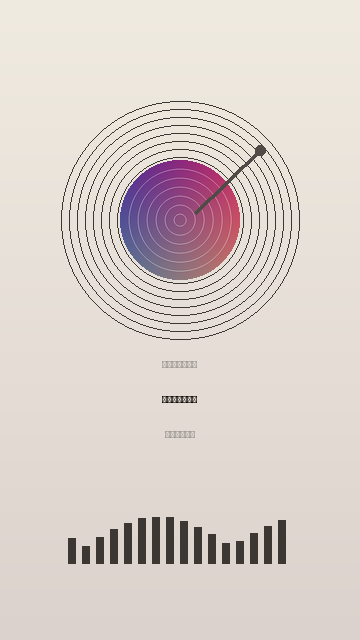
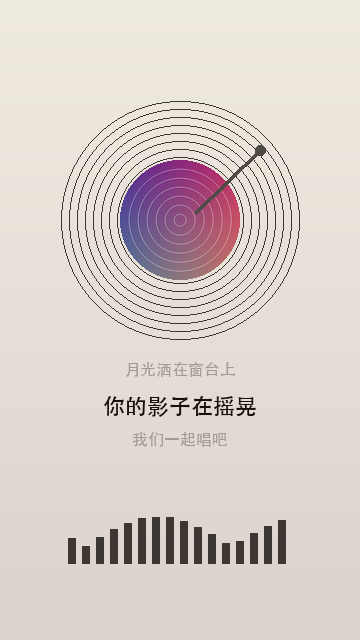
fix: use STHeiti font for Chinese text rendering, centralized font loading

Changed region(s): [[0.275, 0.5625, 0.7028, 0.7188]]

diff --git a/generate_previews.py b/generate_previews.py
@@ -1,7 +1,8 @@
 #!/usr/bin/env python3
 """Generate preview thumbnails for themes and lyrics styles."""
 from pathlib import Path
-from PIL import Image, ImageDraw, ImageFont
+from PIL import Image, ImageDraw
+from render.fonts import get_font
 
 from config import AudioFeatures, TimedLine, FPS
 
@@ -67,12 +68,8 @@ def render_theme_preview(theme_cls, name: str, cover: Image.Image):
 
     # Draw sample lyrics (karaoke style, simplified)
     draw = ImageDraw.Draw(frame)
-    try:
-        font_big = ImageFont.truetype("/System/Library/Fonts/PingFang.ttc", 22)
-        font_small = ImageFont.truetype("/System/Library/Fonts/PingFang.ttc", 16)
-    except OSError:
-        font_big = ImageFont.load_default()
-        font_small = font_big
+    font_big = get_font(22)
+    font_small = get_font(16)
 
     lyrics_y = int(PREVIEW_H * 0.62)
     highlight = theme.get_lyrics_highlight_color()
@@ -93,14 +90,9 @@ def render_lyrics_preview(style_name: str):
     img = Image.new("RGB", (w, h), (15, 15, 30))
     draw = ImageDraw.Draw(img)
 
-    try:
-        font_big = ImageFont.truetype("/System/Library/Fonts/PingFang.ttc", 22)
-        font_med = ImageFont.truetype("/System/Library/Fonts/PingFang.ttc", 18)
-        font_small = ImageFont.truetype("/System/Library/Fonts/PingFang.ttc", 16)
-    except OSError:
-        font_big = ImageFont.load_default()
-        font_med = font_big
-        font_small = font_big
+    font_big = get_font(22)
+    font_med = get_font(18)
+    font_small = get_font(16)
 
     highlight = (0, 255, 255)
     dim = (80, 80, 100)

diff --git a/render/themes/neon_pulse.py b/render/themes/neon_pulse.py
@@ -1,8 +1,9 @@
 # render/themes/neon_pulse.py
 import math
 import random
-from PIL import Image, ImageDraw, ImageFilter, ImageFont
+from PIL import Image, ImageDraw
 from config import AudioFeatures
+from render.fonts import get_font
 
 
 class NeonPulseTheme:
@@ -114,18 +115,10 @@ class NeonPulseTheme:
             draw.line([(x1, y1), (x2, y2)], fill=(r, g, b), width=3)
 
     def draw_title_text(self, draw: ImageDraw.Draw, text: str, canvas_w: int, y: int, max_w: int) -> None:
-        try:
-            font = ImageFont.truetype("/System/Library/Fonts/PingFang.ttc", 48)
-        except OSError:
-            font = ImageFont.load_default()
-        draw.text((canvas_w // 2, y), text, fill="white", anchor="mt", font=font)
+        draw.text((canvas_w // 2, y), text, fill="white", anchor="mt", font=get_font(48))
 
     def draw_artist_text(self, draw: ImageDraw.Draw, text: str, canvas_w: int, y: int, max_w: int) -> None:
-        try:
-            font = ImageFont.truetype("/System/Library/Fonts/PingFang.ttc", 32)
-        except OSError:
-            font = ImageFont.load_default()
-        draw.text((canvas_w // 2, y), text, fill=(180, 180, 200), anchor="mt", font=font)
+        draw.text((canvas_w // 2, y), text, fill=(180, 180, 200), anchor="mt", font=get_font(32))
 
     def get_lyrics_color(self) -> tuple[int, int, int]:
         return (255, 255, 255)

diff --git a/render/themes/wave_groove.py b/render/themes/wave_groove.py
@@ -1,7 +1,8 @@
 # render/themes/wave_groove.py
 import math
-from PIL import Image, ImageDraw, ImageFont
+from PIL import Image, ImageDraw
 from config import AudioFeatures
+from render.fonts import get_font
 
 
 class WaveGrooveTheme:
@@ -84,18 +85,10 @@ class WaveGrooveTheme:
             draw.line(points, fill=(80, 120, 200), width=2)
 
     def draw_title_text(self, draw: ImageDraw.Draw, text: str, canvas_w: int, y: int, max_w: int) -> None:
-        try:
-            font = ImageFont.truetype("/System/Library/Fonts/PingFang.ttc", 48)
-        except OSError:
-            font = ImageFont.load_default()
-        draw.text((canvas_w // 2, y), text, fill="white", anchor="mt", font=font)
+        draw.text((canvas_w // 2, y), text, fill="white", anchor="mt", font=get_font(48))
 
     def draw_artist_text(self, draw: ImageDraw.Draw, text: str, canvas_w: int, y: int, max_w: int) -> None:
-        try:
-            font = ImageFont.truetype("/System/Library/Fonts/PingFang.ttc", 32)
-        except OSError:
-            font = ImageFont.load_default()
-        draw.text((canvas_w // 2, y), text, fill=(160, 180, 220), anchor="mt", font=font)
+        draw.text((canvas_w // 2, y), text, fill=(160, 180, 220), anchor="mt", font=get_font(32))
 
     def get_lyrics_color(self) -> tuple[int, int, int]:
         return (255, 255, 255)

diff --git a/render/themes/vinyl_minimal.py b/render/themes/vinyl_minimal.py
@@ -1,7 +1,8 @@
 # render/themes/vinyl_minimal.py
 import math
-from PIL import Image, ImageDraw, ImageFont
+from PIL import Image, ImageDraw
 from config import AudioFeatures
+from render.fonts import get_font
 
 
 class VinylMinimalTheme:
@@ -74,18 +75,10 @@ class VinylMinimalTheme:
             )
 
     def draw_title_text(self, draw: ImageDraw.Draw, text: str, canvas_w: int, y: int, max_w: int) -> None:
-        try:
-            font = ImageFont.truetype("/System/Library/Fonts/PingFang.ttc", 48)
-        except OSError:
-            font = ImageFont.load_default()
-        draw.text((canvas_w // 2, y), text, fill=(40, 35, 30), anchor="mt", font=font)
+        draw.text((canvas_w // 2, y), text, fill=(40, 35, 30), anchor="mt", font=get_font(48))
 
     def draw_artist_text(self, draw: ImageDraw.Draw, text: str, canvas_w: int, y: int, max_w: int) -> None:
-        try:
-            font = ImageFont.truetype("/System/Library/Fonts/PingFang.ttc", 32)
-        except OSError:
-            font = ImageFont.load_default()
-        draw.text((canvas_w // 2, y), text, fill=(100, 95, 90), anchor="mt", font=font)
+        draw.text((canvas_w // 2, y), text, fill=(100, 95, 90), anchor="mt", font=get_font(32))
 
     def get_lyrics_color(self) -> tuple[int, int, int]:
         return (40, 35, 30)

diff --git a/render/lyrics/karaoke.py b/render/lyrics/karaoke.py
@@ -1,6 +1,7 @@
 # render/lyrics/karaoke.py
-from PIL import Image, ImageDraw, ImageFont
+from PIL import Image, ImageDraw
 from config import TimedLine
+from render.fonts import get_font
 
 
 class KaraokeLyrics:
@@ -11,13 +12,8 @@ class KaraokeLyrics:
             return
 
         draw = ImageDraw.Draw(frame)
-
-        try:
-            font_highlight = ImageFont.truetype("/System/Library/Fonts/PingFang.ttc", 40)
-            font_normal = ImageFont.truetype("/System/Library/Fonts/PingFang.ttc", 30)
-        except OSError:
-            font_highlight = ImageFont.load_default()
-            font_normal = font_highlight
+        font_highlight = get_font(40)
+        font_normal = get_font(30)
 
         current_idx = 0
         for i, line in enumerate(lines):

diff --git a/render/fonts.py b/render/fonts.py
@@ -1,0 +1,22 @@
+"""Centralized font loading with fallback chain for Chinese text."""
+from PIL import ImageFont
+from functools import lru_cache
+
+_FONT_PATHS = [
+    "/System/Library/Fonts/STHeiti Medium.ttc",
+    "/System/Library/Fonts/Hiragino Sans GB.ttc",
+    "/System/Library/Fonts/STHeiti Light.ttc",
+    "/System/Library/Fonts/PingFang.ttc",
+    "/usr/share/fonts/truetype/noto/NotoSansCJK-Regular.ttc",
+]
+
+
+@lru_cache(maxsize=16)
+def get_font(size: int) -> ImageFont.FreeTypeFont:
+    """Load a Chinese-capable font at the given size, with fallback."""
+    for path in _FONT_PATHS:
+        try:
+            return ImageFont.truetype(path, size)
+        except OSError:
+            continue
+    return ImageFont.load_default()

diff --git a/render/lyrics/word_fill.py b/render/lyrics/word_fill.py
@@ -1,6 +1,7 @@
 # render/lyrics/word_fill.py
-from PIL import Image, ImageDraw, ImageFont
+from PIL import Image, ImageDraw
 from config import TimedLine
+from render.fonts import get_font
 
 
 class WordFillLyrics:
@@ -11,10 +12,7 @@ class WordFillLyrics:
             return
 
         draw = ImageDraw.Draw(frame)
-        try:
-            font = ImageFont.truetype("/System/Library/Fonts/PingFang.ttc", 38)
-        except OSError:
-            font = ImageFont.load_default()
+        font = get_font(38)
 
         lyrics_y = int(h * 0.68)
 

diff --git a/render/lyrics/fade.py b/render/lyrics/fade.py
@@ -1,6 +1,7 @@
 # render/lyrics/fade.py
-from PIL import Image, ImageDraw, ImageFont
+from PIL import Image, ImageDraw
 from config import TimedLine
+from render.fonts import get_font
 
 
 class FadeLyrics:
@@ -11,10 +12,7 @@ class FadeLyrics:
             return
 
         draw = ImageDraw.Draw(frame)
-        try:
-            font = ImageFont.truetype("/System/Library/Fonts/PingFang.ttc", 38)
-        except OSError:
-            font = ImageFont.load_default()
+        font = get_font(38)
 
         lyrics_y = int(h * 0.68)
 
